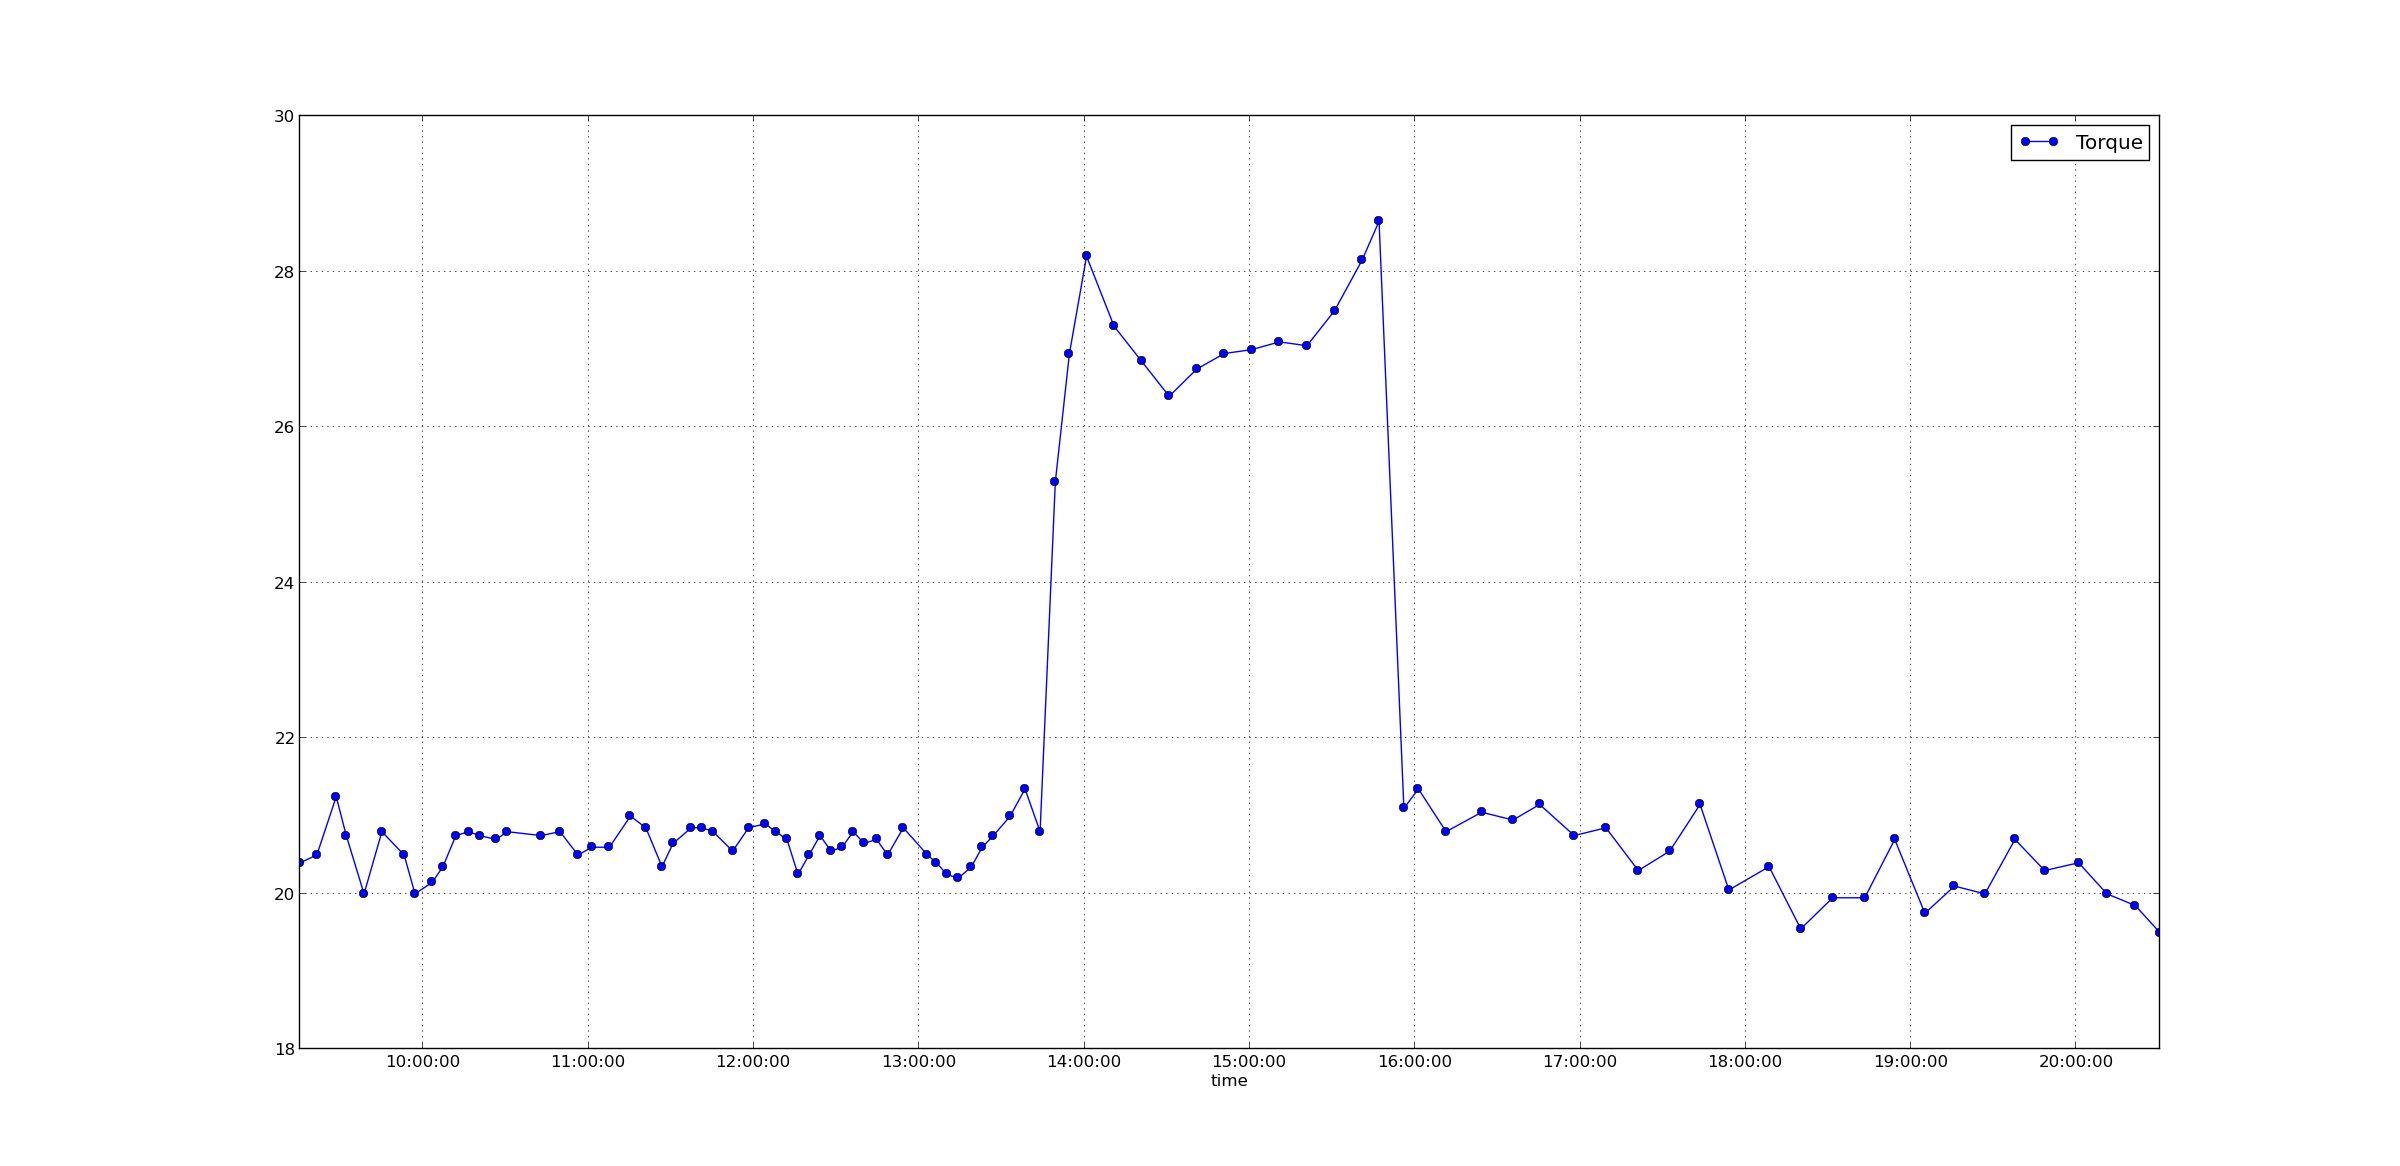
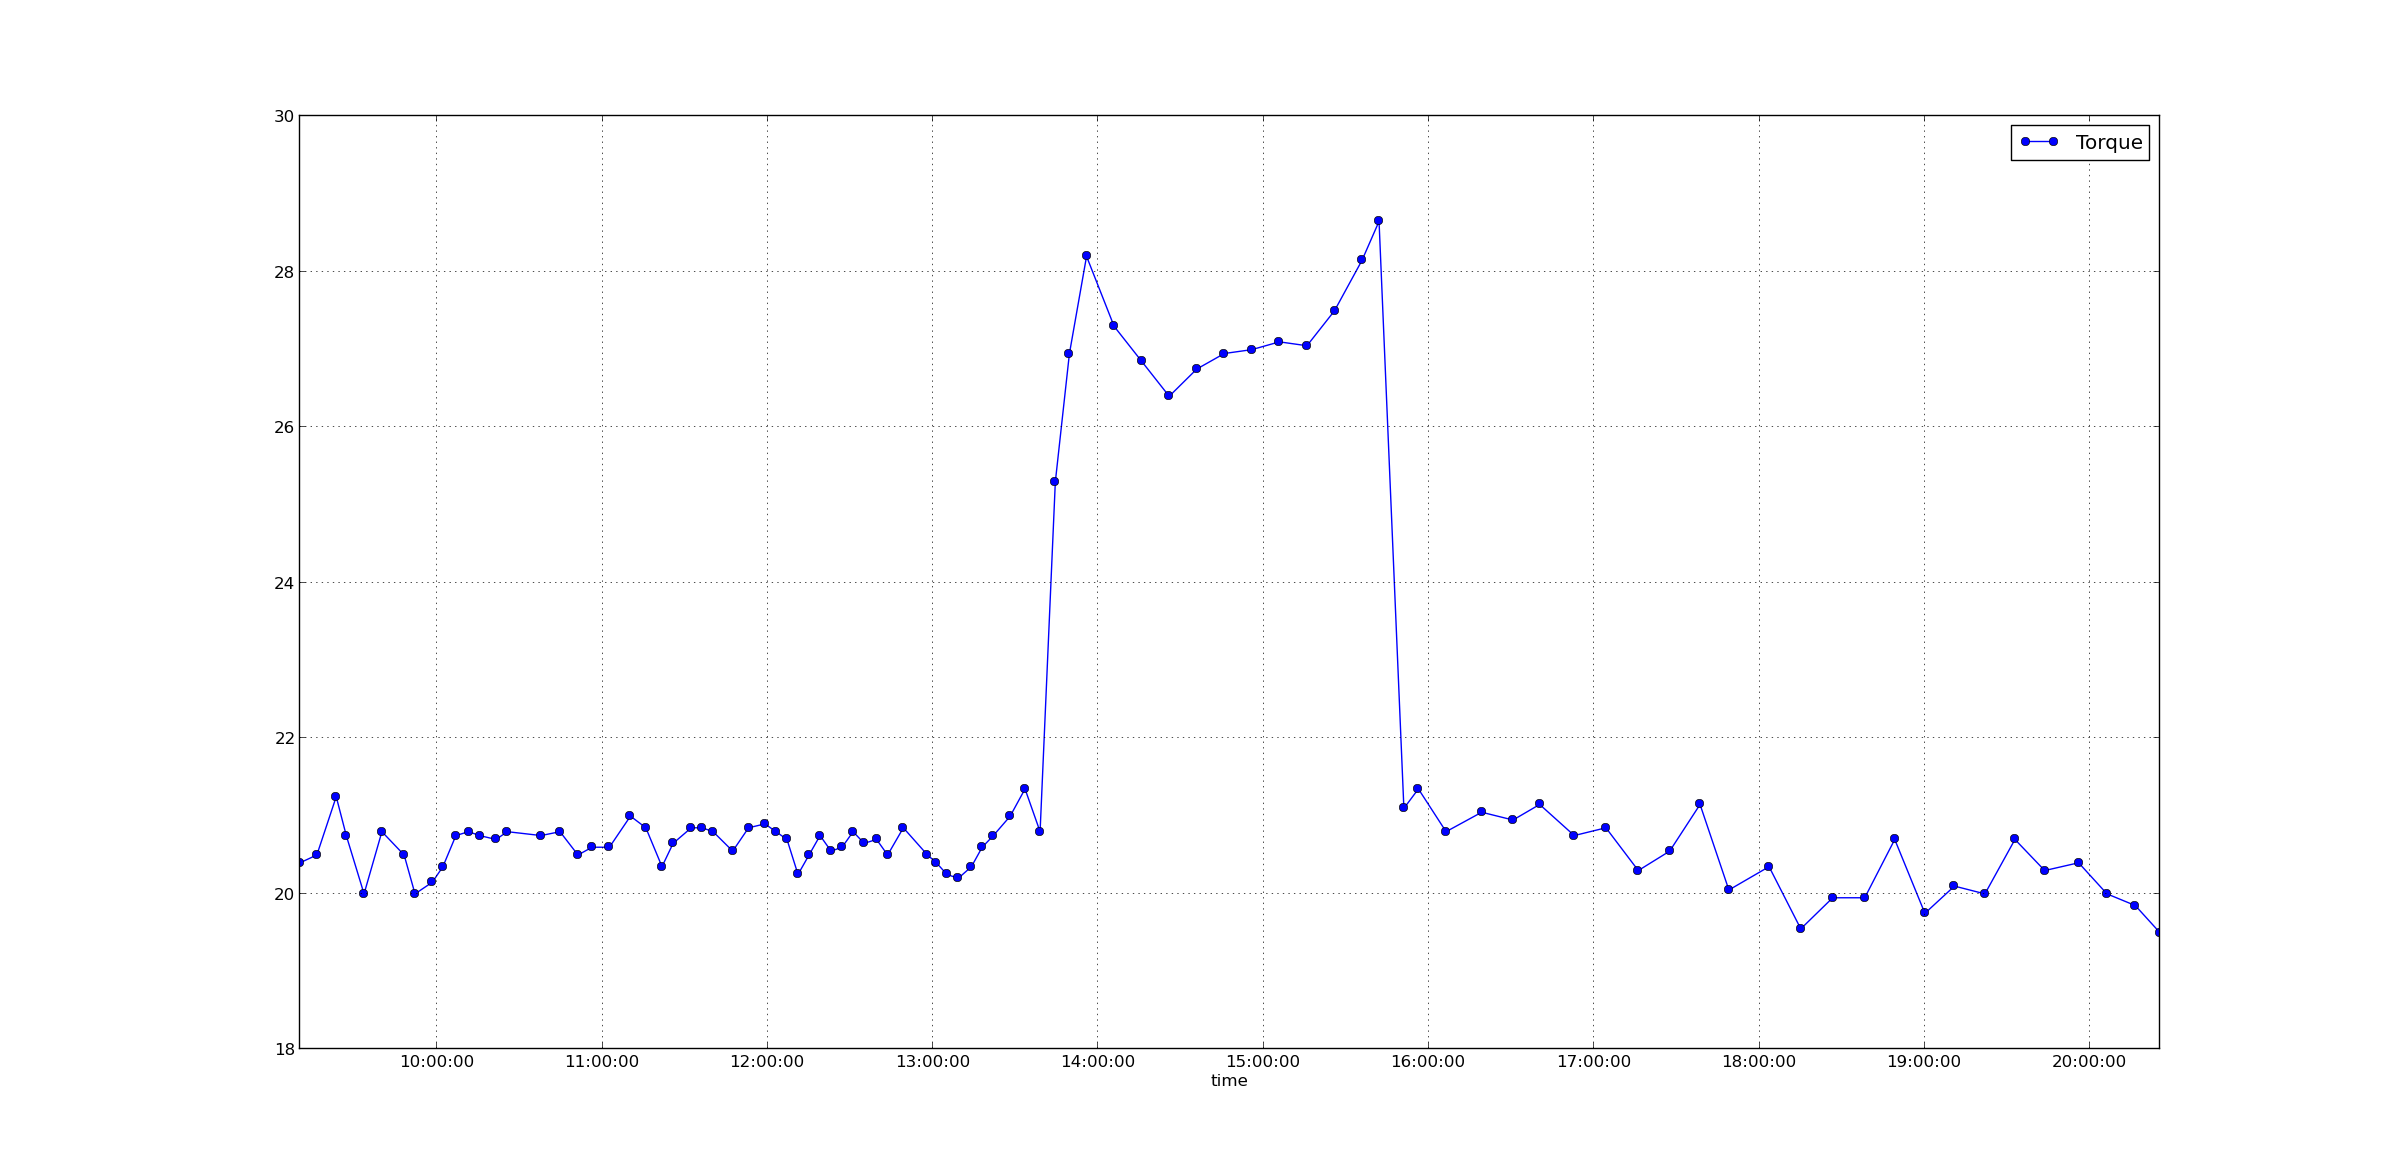
wip

diff --git a/doc/caPVArrayLib.py b/doc/caPVArrayLib.py
@@ -1,0 +1,129 @@
+#!/usr/bin/python
+# coding: utf-8
+import sys
+import numpy as np
+from datetime import datetime
+
+class caPVArray:
+  def __init__(self,name):
+    self.name=name
+    self.dataSet=np.array([])
+    self.timeSet=np.array([])
+    self.dataSetLength=0
+    self.lastValue = 0
+    self.firstscan = 1
+    self.dataSetMod=np.array([])
+    self.dataSetDeLin=np.array([])
+    self.dataSetScale=np.array([])
+    self.dataSetAdd=np.array([])
+    self.turns = 0
+    self.sampleTime=np.array([])
+    self.lastTimeVal = 0
+
+    return
+
+  def setName(self, name):
+    self.name=name
+    return
+  
+  def getName(self):
+    return self.name
+
+  def getData(self):
+    self.dataSet=self.dataSet.astype( np.dtype('float64'))
+    return self.timeSet, self.dataSet
+
+  def setValues(self,timeVal,value):
+    self.dataSet=np.append(self.dataSet,value)
+    self.timeSet=np.append(self.timeSet,timeVal)  
+    if self.firstscan:
+      self.lastTimeVal=timeVal      
+      self.firstscan=0
+    self.sampleTime=np.append(self.sampleTime,(timeVal-self.lastTimeVal).total_seconds())
+    self.lastTimeVal=timeVal      
+    self.dataSetLength=self.dataSetLength+1
+    return
+
+  def getSampleTime(self):
+     return self.sampleTime
+
+  def getLength(self):
+    return self.dataSetLength
+
+  def calcDeModValue(self,modulofactor):
+    
+    if self.dataSetLength <=1:
+        print ("Error: Data set size to small." )
+    
+    
+    timeSet, localdataSet=self.getData()
+    #print localdataSet
+    self.lastValue = localdataSet[0]
+    
+    for datapoint in localdataSet:
+      
+      if self.lastValue-datapoint > 0.75 * modulofactor:
+        self.turns = self.turns + 1
+
+      if datapoint-self.lastValue > 0.75 * modulofactor:
+        self.turns = self.turns - 1
+
+      self.dataSetMod=np.append(self.dataSetMod,datapoint + self.turns * modulofactor)    
+      self.lastValue = datapoint
+    
+  def calcScale(self,scalefactor):
+    timeSet, localdataSet=self.getData()
+    for datapoint in localdataSet:
+      self.dataSetScale=np.append(self.dataSetScale,datapoint *scalefactor)
+
+  def calcAdd(self,addnumber):
+    timeSet, localdataSet=self.getData()
+    for datapoint in localdataSet:
+      self.dataSetAdd=np.append(self.dataSetAdd,datapoint + addnumber)
+
+  def substLin(self):
+      timeSet, localdataSet=self.getData()
+      x=range(0,self.getLength())
+      y = localdataSet
+      z = np.polyfit(x, y, 1)
+
+      index = 0
+      for datapoint in localdataSet:
+        newData = datapoint - np.polyval(z,index)
+        self.dataSetDeLin=np.append(self.dataSetDeLin,newData)
+        index = index +1 
+
+  def printDeLinValues(self):
+    for i in range(1,self.getLength()):
+      print (self.name + " " + self.timeSet[i].strftime("%Y-%m-%d %H:%M:%S.%f") + " " + str(self.dataSetDeLin[i]))
+
+  def printDownSample(self,downSampleFactor):
+    localTimeSet, localDataSet=self.getData()
+    #print ("Length: " + str(self.getLength())+ "  " + str(localDataSet.size) + "  " + str(localTimeSet.size))
+    for i in range(1,self.getLength(),int(downSampleFactor)):
+      print (self.name + " " + localTimeSet[i].strftime("%Y-%m-%d %H:%M:%S.%f") + " " + str(localDataSet[i]))
+
+  def printValues(self):
+    localTimeSet, localDataSet=self.getData()    
+    
+    for i in range(1,self.getLength()):
+      print (self.name + " " + localTimeSet[i].strftime("%Y-%m-%d %H:%M:%S.%f") + " " + str(localDataSet[i]))
+
+  def printDiff(self):
+    localTimeSet, localDataSet=self.getData()    
+    if self.getLength()<2:
+      print ("diff Error: To short data array.")
+    for i in range(2,self.getLength()):
+      print (self.name + " " + localTimeSet[i].strftime("%Y-%m-%d %H:%M:%S.%f") + " " + str(localDataSet[i-1]-localDataSet[i]))
+
+  def printScaleValues(self):
+    for i in range(1,self.getLength()):
+      print (self.name + " " + str(self.timeSet[i].strftime("%Y-%m-%d %H:%M:%S.%f") ) + " " + str(self.dataSetScale[i]))
+
+  def printDeModValues(self):
+    for i in range(1,self.getLength()):
+      print (self.name + " " + str(self.timeSet[i].strftime("%Y-%m-%d %H:%M:%S.%f") ) + " " + str(self.dataSetMod[i]))
+
+  def printAddValues(self):
+    for i in range(1,self.getLength()):
+      print (self.name + " " + str(self.timeSet[i].strftime("%Y-%m-%d %H:%M:%S.%f") ) + " " + str(self.dataSetAdd[i]))

diff --git a/doc/caMonitorArrayParserLib.py b/doc/caMonitorArrayParserLib.py
@@ -1,0 +1,141 @@
+#!/usr/bin/python
+# coding: utf-8
+import sys
+import numpy as np
+from datetime import datetime
+
+class caMonitorArrayParser:
+  def __init__(self):
+    self.timeLowLimit = 0
+    self.timeHighLimit = 0
+    self.timeLowLimtSet = 0
+    self.timeHighLimtSet = 0
+    self.lastTimestamp = 0
+    self.lastTimeStampSet = 0
+    return
+
+  def lineValid(self, line):
+    # Two cases..
+    # 1. Normal: TARGET_DU:Rotation-Brk-Temp1-Act-Slow 2019-05-24 12:08:02.763000 28.8   
+    # 2. Undefined timetsamp: TARGET_DU:Rotation-Brk-Torque-Cmd <undefined> 56.9986 
+    # for case two then use last valid time stamp (for any other PV)
+
+    if len(line.split()) == 3: 
+      pos1=line.rfind('<undefined>')
+      if pos1<=0 or not self.lastTimeStampSet:
+        print ("Ignoring line: " + line + " (Undefined timestamp and no fallback timestamp set).")
+        return 0
+      print("Warning: Time stamp undefined. Using last valid timestamp (" +line +").")
+      return 1 
+
+    pos1=line.rfind(':')
+    if pos1<0:      
+      print("Ignoring line: " + line + " (Missing timestamp \":\").")
+      return 0
+
+    if(line.count('-')<2):
+      print("Ignoring line: " + line + " (Missing timestamp \":\").")
+      return 0
+
+    if(line.count(':')<2):
+      print("Ignoring line: " + line + " (Missing timestamp \":\").")
+      return 0
+    
+    pos1=line.rfind('Not connected')
+    if pos1>=0:
+      print("Ignoring line: " + line + " (\"Not connected\").")
+      return 0
+
+    pos1=line.rfind('*')
+    if pos1>=0:
+      print("Ignoring line: " + line + " (Invalid char \"*\").")
+      return 0
+
+    if len(line.split()) < 4: 
+      print("Ignoring line: " + line + " (not three columns")
+      return 0
+
+    #Check time low limit
+    if self.timeLowLimtSet:
+      mylist=line.split()      
+      timeString=mylist[1]+" "+mylist[2]
+      timeVal=self.getTimeFromString(str(timeString))
+      if timeVal < self.timeLowLimit:
+        #print "Ignoring line: Data point low time limit."
+        return 0
+
+    #Check time high limit
+    if self.timeHighLimtSet:
+      mylist=line.split()      
+      timeString=mylist[1]+" "+mylist[2]
+      timeVal=self.getTimeFromString(str(timeString))
+      if timeVal > self.timeHighLimit:
+        #print "Ignoring line: Data point high time limit."
+        return 0
+  
+    # Line OK
+    return 1
+
+  def setLowTimeLimit(self,timeLimitStr):
+    if len(timeLimitStr)==0:
+      print("Warning: invalid time limit: " + timeLimitStr)
+      return
+    self.timeLowLimit=self.getTimeFromString(timeLimitStr)
+    self.timeLowLimtSet = 1
+
+  def setHighTimeLimit(self,timeLimitStr):
+    if len(timeLimitStr)==0:
+      print("Warning: invalid time limit: " + timeLimitStr)
+      return
+    self.timeHighLimit=self.getTimeFromString(timeLimitStr)
+    self.timeHighLimtSet = 1
+
+  def getTimeFromString(self,line):
+
+    pos1=line.rfind(".")
+    if len(line)-pos1 >= 6:
+      line=line[:-3]
+
+    return datetime.strptime(line,"%Y-%m-%d %H:%M:%S.%f") 
+
+  def getValues(self,line):    
+    mylist=line.split()
+    
+    #use last timestamp if "undefined" timestamp    
+    if len(line.split()) == 3: 
+      pos1=line.rfind('<undefined>')
+      if(pos1>=0):
+        timeVal=self.lastTimestamp
+        data = np.array(mylist[2])
+    elif len(line.split()) == 4: 
+        timeString=mylist[1]+" "+mylist[2]
+        timeVal=self.getTimeFromString(str(timeString))
+        self.lastTimestamp = timeVal
+        self.lastTimeStampSet = 1
+        data = np.array(mylist[3])        
+    else:        #Array
+      timeString=mylist[1]+" "+mylist[2]
+      timeVal=self.getTimeFromString(str(timeString))
+      self.lastTimestamp = timeVal
+      self.lastTimeStampSet = 1
+      data = np.array(mylist[4:])      
+    
+    pvName=mylist[0]
+    return pvName, timeVal, data
+
+  def checkModuloAndPrintOut(self,line,modulofactor):
+    mylist=line.split()
+    data = np.array(mylist[3])
+    if self.firstscan:
+        self.lastValue = data
+        self.firstscan = 0
+
+    if self.lastValue-data > 0.75 * modulofactor:
+        self.turns = self.turns + 1
+
+    if data-self.lastValue > 0.75 * modulofactor:
+        self.turns = self.turns - 1
+    data = data + self.turns * modulofactor
+
+    # print new string to std out
+    print(mylist[0:2] + data.str())

diff --git a/doc/plotCaMonitorTimeShift.py b/doc/plotCaMonitorTimeShift.py
@@ -1,0 +1,87 @@
+#!/usr/bin/python
+# coding: utf-8
+import sys
+import numpy as np
+import matplotlib.pyplot as plt
+from datetime import datetime
+from dateutil.relativedelta import relativedelta
+from caPVArrayLib import caPVArray
+from caMonitorArrayParserLib import caMonitorArrayParser 
+ 
+def printOutHelp():
+  print ("python plotCaMonitor.py [<filename>]")
+  print ("example: python plotCaMonitor.py xx.txt")
+  print ("example stdin: cat data.log | grep -E 'thread|CPU' | python plotCaMonitor.py" )
+
+def main():
+  # Check args
+  if len(sys.argv)>1:
+    print(sys.argv[1] )
+    pos1=sys.argv[1].find('-h')
+    if(pos1>=0):
+      printOutHelp()
+      sys.exit()
+  
+  if len(sys.argv)!=2 and len(sys.argv)>1:  
+      printOutHelp()
+      sys.exit()
+  
+  if len(sys.argv)==2:
+    fname=sys.argv[1]
+    dataFile=open(fname,'r')
+
+  if len(sys.argv)==1:
+    fname=""
+    dataFile=sys.stdin;
+
+  parser=caMonitorArrayParser()
+  pvs=[]
+
+  for line in dataFile:
+    if not parser.lineValid(line):      
+      continue
+
+    pvName, timeVal, data=parser.getValues(line)
+    newPv=True;
+    pvToAddDataTo=caPVArray(pvName)
+    # See if old or new pv
+    for pv in pvs:
+      if pv.getName() == pvName:        
+        pvToAddDataTo=pv
+        newPv=False;
+        break;
+    
+    pvToAddDataTo.setValues(timeVal,data)    
+    if newPv:       
+      pvs.append(pvToAddDataTo)
+      print("Added PV: " + pvName)
+  
+  print("Statistics: ")
+  legend=[]
+  print (pvs)
+
+  for pv in pvs: 
+    timeSet, dataSet=pv.getData()
+    #for d in dataSet:
+    #  print d
+    pvLength = pv.getLength()
+    pvMax = np.max(dataSet)
+    pvMin = np.min(dataSet)
+    pvAvg = np.mean(dataSet)
+    pvStd = np.std(dataSet)
+    legStr = pv.getName() + "[" + str(pvLength) + "] " + str(pvMin) + ".." + str(pvMax) + ", mean: " + str(pvAvg) + ", std: " + str(pvStd)
+    legend.append(pv.getName())
+     
+    x=timeSet - relativedelta(minutes=5)
+    y=dataSet
+    print (legStr)
+    plt.plot(x,y,'o-')
+
+  plt.legend(legend)
+  plt.grid()
+  plt.title(fname)
+  plt.xlabel("time")
+  plt.show()
+  
+if __name__ == "__main__":
+  main()
